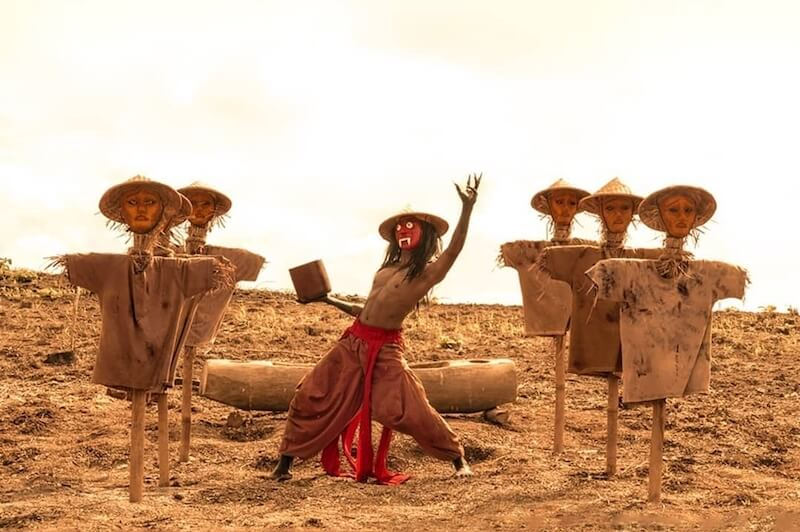
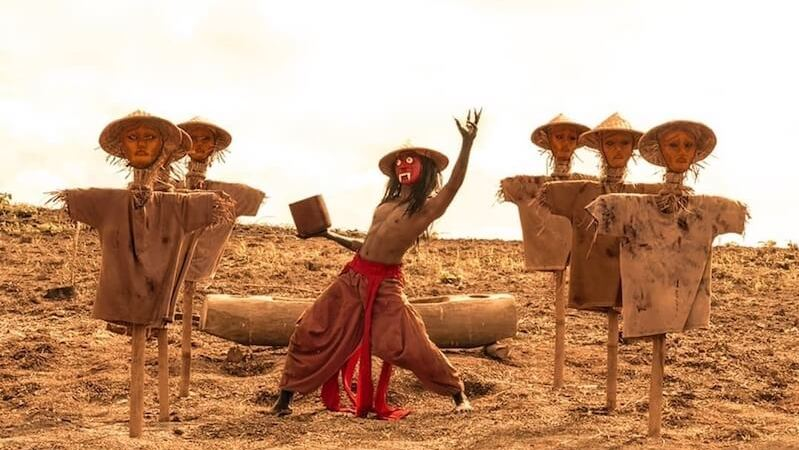
Modify Gerjak sizing

diff --git a/src/content/PortfolioWriting.ts b/src/content/PortfolioWriting.ts
@@ -25,6 +25,20 @@ export default Vue.extend({
       publications: [
         {
           id: 1,
+          src:
+            "https://issuu.com/matilampu/docs/mati_lampu_vol4_7f301e70bf19a9",
+          cover: CoverToleransi,
+          title: "Mati Lampu Vol.4: Toleransi",
+          description: `
+            Became a contributor to the fourth volume of “Mati Lampu” zine.
+            <br><br>
+            This zine raises about tolerance, where it is moved to see a "reality of
+            tolerance" with differences as a principle of analysis: seeing the
+            distance from idealization of tolerance, with empirical reality.
+          `
+        },
+        {
+          id: 2,
           src: "https://linktr.ee/EndIsBeginning",
           cover: CoverTheEnd,
           title: "Because the End Is Really the Beginning",
@@ -40,20 +54,6 @@ export default Vue.extend({
           the feelings that he has felt during his life until now.
           `,
           orderLink: "https://linktr.ee/EndIsBeginning"
-        },
-        {
-          id: 2,
-          src:
-            "https://issuu.com/matilampu/docs/mati_lampu_vol4_7f301e70bf19a9",
-          cover: CoverToleransi,
-          title: "Mati Lampu Vol.4: Toleransi",
-          description: `
-            Became a contributor to the fourth volume of “Mati Lampu” zine.
-            <br><br>
-            This zine raises about tolerance, where it is moved to see a "reality of
-            tolerance" with differences as a principle of analysis: seeing the
-            distance from idealization of tolerance, with empirical reality.
-          `
         },
         {
           id: 3,

diff --git a/src/content/PortfolioFilm.ts b/src/content/PortfolioFilm.ts
@@ -3,7 +3,7 @@ import PortfolioHeading from "../components/PortfolioHeading.vue";
 import PortfolioDescription from "../components/PortfolioDescription.vue";
 
 import FilmWork from "../components/FilmWork.vue";
-import CoverGerajak from "../assets/ss-gerajak.webp";
+import CoverGerajak from "../assets/ss-gerajak.jpeg";
 import CoverBelrusak from "../assets/ss-belrusak.webp";
 import CoverMenyusulmu from "../assets/ss-menyusulmu.webp";
 import CoverTerbelenggu from "../assets/ss-terbelenggu.webp";
